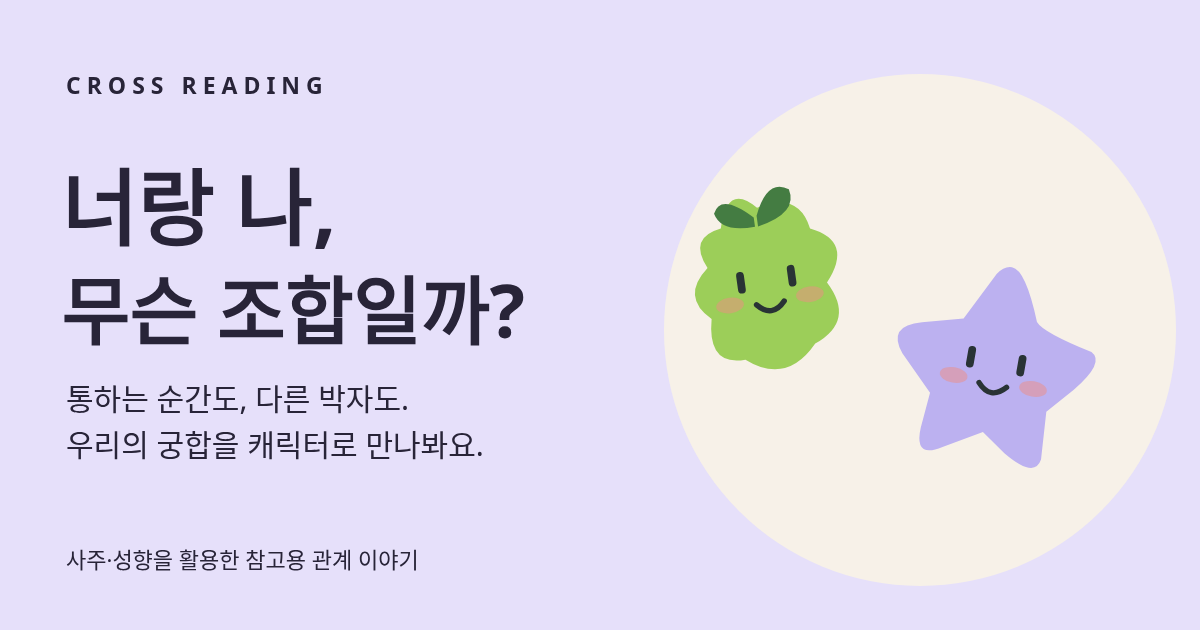
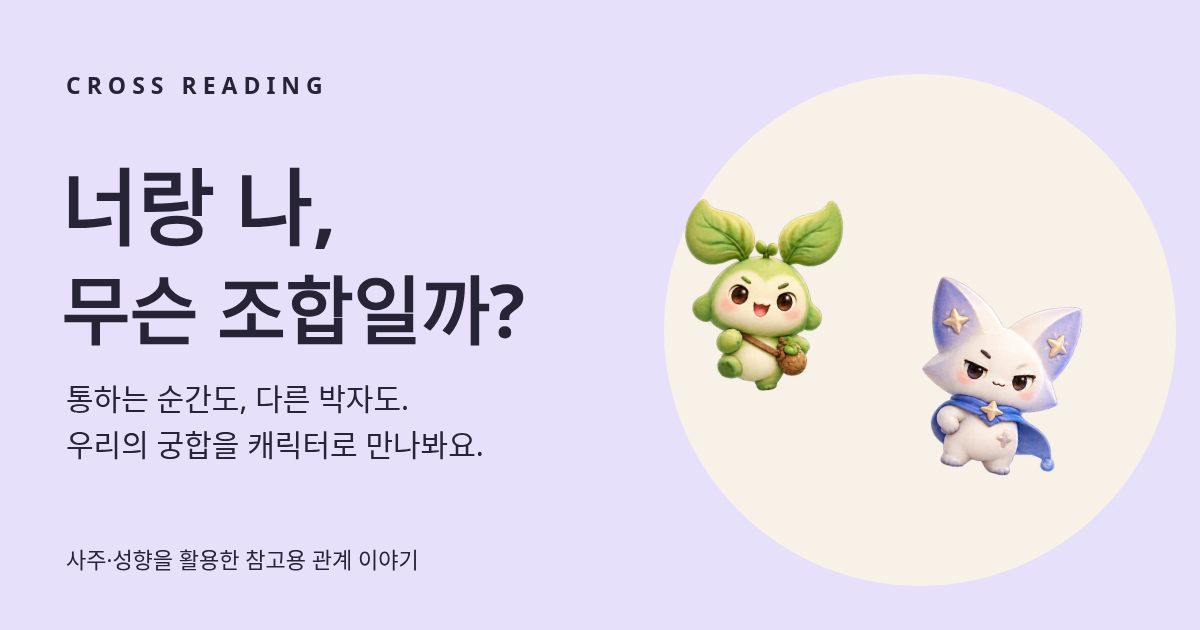
feat: add guardian character family and private test user provisioning

Changed region(s): [[0.74, 0.4222, 0.925, 0.754], [0.555, 0.3016, 0.7092, 0.6333]]

diff --git a/src/lib/chemistryShare.ts b/src/lib/chemistryShare.ts
@@ -3,15 +3,31 @@ import { chemistryStory } from '../core/chemistry'
 import { characterDrawing } from '../core/characterArt'
 import { withBase } from './basePath'
 
-export function chemistryShareSvg(pair: PairCompat): string {
+export function chemistryShareSvg(pair: PairCompat, atlas?: string): string {
   const story = chemistryStory(pair)
   // Only catalog copy goes into the export: never IDs, names, notes, or fact text.
   const match = story.matches[0]?.title ?? '우리의 공통점은 알아가는 중'
   const difference = story.differences[0]?.title ?? '눈에 띄는 차이는 아직 없어요'
-  return `<svg xmlns="http://www.w3.org/2000/svg" width="1080" height="1350" viewBox="0 0 1080 1350"><rect width="1080" height="1350" rx="60" fill="${story.color}"/><g font-family="system-ui, sans-serif" fill="#242838"><text x="70" y="108" font-size="28" font-weight="800" letter-spacing="5">CROSS READING · OUR CHEMISTRY</text><text x="540" y="245" text-anchor="middle" font-size="88" font-weight="900">${story.title}</text><text x="540" y="304" text-anchor="middle" font-size="31">${story.tag}</text><ellipse cx="540" cy="726" rx="400" ry="28" fill="#242838" opacity=".08"/><g transform="translate(90 352) scale(2.65)">${characterDrawing(story.characters[0])}</g><g transform="translate(565 352) scale(2.65)">${characterDrawing(story.characters[1], true)}</g><text x="535" y="548" text-anchor="middle" font-size="70">✦</text><rect x="64" y="794" width="952" height="322" rx="36" fill="#fff"/><text x="112" y="859" font-size="29" fill="#38734c" font-weight="800">잘 통하는 포인트</text><text x="112" y="916" font-size="36" font-weight="700">${match}</text><path d="M112 950H968" stroke="#e4e0db"/><text x="112" y="1009" font-size="29" fill="#a74a31" font-weight="800">맞춰볼 포인트</text><text x="112" y="1065" font-size="36" font-weight="700">${difference}</text><text x="540" y="1190" text-anchor="middle" font-size="36" font-weight="800">너랑 나는 무슨 조합일까?</text><text x="540" y="1246" text-anchor="middle" font-size="26">kor-sangyeoniii.github.io/cross-reading/</text><text x="540" y="1305" text-anchor="middle" font-size="22">사주·공개한 MBTI를 활용한 참고용 비유 · 관계를 판정하지 않아요</text></g></svg>`
+  return `<svg xmlns="http://www.w3.org/2000/svg" width="1080" height="1350" viewBox="0 0 1080 1350"><rect width="1080" height="1350" rx="60" fill="${story.color}"/><g font-family="system-ui, sans-serif" fill="#242838"><text x="70" y="108" font-size="28" font-weight="800" letter-spacing="5">CROSS READING · OUR CHEMISTRY</text><text x="540" y="245" text-anchor="middle" font-size="88" font-weight="900">${story.title}</text><text x="540" y="304" text-anchor="middle" font-size="31">${story.tag}</text><ellipse cx="540" cy="726" rx="400" ry="28" fill="#242838" opacity=".08"/><g transform="translate(90 352) scale(2.65)">${characterDrawing(story.characters[0], false, atlas)}</g><g transform="translate(565 352) scale(2.65)">${characterDrawing(story.characters[1], true, atlas)}</g><text x="535" y="548" text-anchor="middle" font-size="70">✦</text><rect x="64" y="794" width="952" height="322" rx="36" fill="#fff"/><text x="112" y="859" font-size="29" fill="#38734c" font-weight="800">잘 통하는 포인트</text><text x="112" y="916" font-size="36" font-weight="700">${match}</text><path d="M112 950H968" stroke="#e4e0db"/><text x="112" y="1009" font-size="29" fill="#a74a31" font-weight="800">맞춰볼 포인트</text><text x="112" y="1065" font-size="36" font-weight="700">${difference}</text><text x="540" y="1190" text-anchor="middle" font-size="36" font-weight="800">너랑 나는 무슨 조합일까?</text><text x="540" y="1246" text-anchor="middle" font-size="26">kor-sangyeoniii.github.io/cross-reading/</text><text x="540" y="1305" text-anchor="middle" font-size="22">사주·공개한 MBTI를 활용한 참고용 비유 · 관계를 판정하지 않아요</text></g></svg>`
+}
+let atlasData: Promise<string> | undefined
+function shareAtlas() {
+  if (!atlasData) atlasData = fetch(withBase('/characters/guardians.png')).then(async (response) => {
+    if (!response.ok) throw new Error('캐릭터를 불러오지 못했어요.')
+    const blob = await response.blob()
+    if (blob.type !== 'image/png') throw new Error('캐릭터를 불러오지 못했어요.')
+    return new Promise<string>((resolve, reject) => {
+      const reader = new FileReader()
+      reader.onload = () => resolve(String(reader.result))
+      reader.onerror = () => reject(new Error('캐릭터를 불러오지 못했어요.'))
+      reader.readAsDataURL(blob)
+    })
+  }).catch((error) => { atlasData = undefined; throw error })
+  return atlasData
 }
 export async function chemistryShareFile(pair: PairCompat): Promise<File> {
-  const url = URL.createObjectURL(new Blob([chemistryShareSvg(pair)], { type: 'image/svg+xml' }))
+  const atlas = await shareAtlas()
+  const url = URL.createObjectURL(new Blob([chemistryShareSvg(pair, atlas)], { type: 'image/svg+xml' }))
   try {
     const image = new Image()
     image.src = url

diff --git a/src/core/characterArt.ts b/src/core/characterArt.ts
@@ -1,7 +1,15 @@
 import type { CharacterKind } from './chemistry'
 
 // Original inline vector mascots; no external image request or personal seed.
-export function characterDrawing(kind: CharacterKind, alternate = false) {
+export function characterDrawing(kind: CharacterKind, alternate = false, atlas?: string) {
+  if (atlas) {
+    // Display a bounded region of the original atlas; never change the source asset.
+    const bounds: Record<CharacterKind, [number, number]> = { sprout: [0, 460], flame: [465, 390], sun: [860, 455], star: [1320, 425], cloud: [1750, 422] }
+    const [start, width] = bounds[kind]
+    const scale = 164 / 650, left = (164 - width * scale) / 2
+    const source = atlas.replace(/&/g, '&amp;').replace(/"/g, '&quot;').replace(/</g, '&lt;')
+    return `<defs><clipPath id="guardian-${kind}"><rect x="${left}" y="0" width="${width * scale}" height="164" /></clipPath></defs><image clip-path="url(#guardian-${kind})" href="${source}" x="${left - start * scale}" y="${-40 * scale}" width="${2172 * scale}" height="${724 * scale}" />`
+  }
   const shape: Record<CharacterKind, string> = {
     sprout: '<path d="M43 98 Q25 81 45 65 Q35 44 57 41 Q65 12 82 31 Q110 24 114 49 Q141 61 120 85 Q135 112 107 123 Q85 147 61 127 Q36 128 43 98Z" fill="#9cce59"/><path d="M79 37Q60 18 54 31Q57 44 79 43M81 36Q91 13 104 22Q108 38 81 43" fill="#447c42"/>',
     sun: '<path d="M81 19L94 32L112 26L117 44L137 48L132 68L148 82L132 98L137 117L115 122L108 140L90 134L74 148L60 130L40 134L34 114L15 106L24 86L13 68L33 57L33 36L56 38L66 19Z" fill="#f5bc4f"/><circle cx="81" cy="82" r="48" fill="#ffda77"/>',

diff --git a/src/core/chemistry.ts b/src/core/chemistry.ts
@@ -39,9 +39,9 @@ export function chemistryStory(pair: PairCompat) {
   return { kind, ...CHEMISTRY_STORIES[kind], matches, differences }
 }
 export const CHARACTER_PROFILES: Record<string, { kind: CharacterKind; name: string; line: string }> = {
-  목: { kind: 'sprout', name: '새싹 탐험가', line: '새로운 시작을 떠올리게 하는 나무의 이미지' },
-  화: { kind: 'flame', name: '반짝 불꽃', line: '마음을 표현하는 장면을 떠올리는 불의 이미지' },
-  토: { kind: 'sun', name: '포근한 중심', line: '곁을 든든하게 채우는 흙의 이미지' },
-  금: { kind: 'star', name: '또렷한 별', line: '필요한 것을 고르는 쇠의 이미지' },
-  수: { kind: 'cloud', name: '몽글 사색가', line: '생각과 쉼을 떠올리게 하는 물의 이미지' },
+  목: { kind: 'sprout', name: '모리 · 새싹 탐험가', line: '“일단 한 걸음 가볼까?” 호기심을 품은 목의 정령' },
+  화: { kind: 'flame', name: '타오 · 불꽃 응원단', line: '“네 편은 여기 있어!” 마음을 표현하는 화의 정령' },
+  토: { kind: 'sun', name: '도담 · 포근한 중심', line: '“급하면 잠깐 기대.” 곁을 지키는 토의 정령' },
+  금: { kind: 'star', name: '반디 · 또렷한 별', line: '“내 기준은 소중하니까.” 선을 아는 금의 정령' },
+  수: { kind: 'cloud', name: '몽울 · 느긋한 사색가', line: '“생각도 쉬어야 반짝여.” 쉼을 품은 수의 정령' },
 }

diff --git a/src/ui/ChemistryCharacters.tsx b/src/ui/ChemistryCharacters.tsx
@@ -1,9 +1,10 @@
 import type { CharacterKind } from '../core/chemistry'
 
+import { withBase } from '../lib/basePath'
 import { characterDrawing } from '../core/characterArt'
 
 export function ChemistryCharacter({ kind, alternate = false }: { kind: CharacterKind; alternate?: boolean }) {
-  return <svg viewBox="0 0 164 164" aria-hidden="true" focusable="false" dangerouslySetInnerHTML={{ __html: characterDrawing(kind, alternate) }} />
+  return <svg viewBox="0 0 164 164" data-guardian={kind} aria-hidden="true" focusable="false" dangerouslySetInnerHTML={{ __html: characterDrawing(kind, alternate, withBase('/characters/guardians.png')) }} />
 }
 export function ChemistryDuo({ kinds }: { kinds: [CharacterKind, CharacterKind] }) {
   return <div className="chemistry-duo" aria-hidden="true"><ChemistryCharacter kind={kinds[0]} /><span>✦</span><ChemistryCharacter kind={kinds[1]} alternate /></div>

diff --git a/docs/test-accounts.md b/docs/test-accounts.md
@@ -1,0 +1,34 @@
+# CR-021 합성 테스트 계정
+
+실제 사람을 등록하지 않는다. 테스트 계정은 모두 `example.invalid` 주소로 만들고 관리자 API의 `email_confirm: true`를 사용하므로 메일/SMS를 발송하지 않는다. 공개 화면에 계정 전환 버튼이나 비밀번호를 넣지 않는다.
+
+| 계정 | 가상 닉네임 | 테스트 범위 |
+| --- | --- | --- |
+| cross-reading-test-01@example.invalid | 테스트 모리 | 출생시간 있음, ENTJ |
+| cross-reading-test-02@example.invalid | 테스트 타오 | 다른 원국·출생시간 있음, ISFP |
+| cross-reading-test-03@example.invalid | 테스트 도담 | 다른 원국·출생시간 있음, ENFP |
+| cross-reading-test-04@example.invalid | 테스트 몽울 | 출생시간·MBTI 미상 안내 |
+
+닉네임은 캐릭터 이름을 빌린 가상 별칭이며 해당 계정의 사주 캐릭터를 미리 정하지 않는다. 사주 캐릭터와 궁합은 입력값에서 계산한다.
+
+## 관리자 실행
+
+현재 프로젝트 `bfntkulpspknuuwmnhfx`용 `SUPABASE_SERVICE_ROLE_KEY`를 클라우드 환경 보안 설정으로 공급한다. 환경 설정 초안에 요구 사항만 저장되어 있으며 값은 들어 있지 않다. 키를 채팅/코드/로그에 넣지 않는다. 서비스 키는 앱의 `VITE_` 변수로 사용하지 않는다.
+
+Node 24에서 저장소 밖의 비공개 파일 경로를 전달한다.
+
+```sh
+node --use-env-proxy scripts/provision-test-users.mjs /tmp/cross-reading-test-credentials.json
+```
+
+스크립트는 먼저 권한 0600의 비공개 manifest에 서로 다른 무작위 비밀번호와 예정 ID를 저장한 뒤, 해당 ID의 합성 사용자만 확인/생성한다. 모든 사용자 목록 조회, 기존 비밀번호 재설정, 기존 프로필 덮어쓰기는 하지 않는다. 기존 계정이 다른 manifest 소유면 중단한다. 실패 후 같은 파일로 재실행하면 완료된 단계를 재사용한다. 파일을 잃으면 임의로 기존 계정을 덮어쓰지 말고 소유자가 처리한다.
+
+사용자 전달용 자격 증명은 비공개 수단으로만 공유한다. 저장소/PR/공개 사이트에 파일을 올리지 않는다. `.invalid` 계정은 이메일 복구를 받을 수 없으므로 manifest를 안전하게 보관한다.
+
+## 직접 테스트
+
+계정별 서로 다른 브라우저 프로필/시크릿 창을 사용한다. 같은 브라우저의 일반 탭들은 Supabase 로그인 저장소를 공유하므로 독립 계정 테스트가 되지 않는다. 각 계정으로 로그인하여 개인 풀이를 확인하고, 한 계정에서 초대 링크를 만들어 나머지 세 계정에서 수락하면 4인 모임을 테스트할 수 있다. 기존 실제 사용자의 모임에 자동 추가하거나 메시지를 자동 발송하지 않는다.
+
+관리자 권한이 없을 때에는 계정이 생성되었다고 표시하지 않는다. 생성 스크립트의 로컬 모의 테스트 통과는 실제 Supabase 생성 성공을 뜻하지 않는다.
+
+API 근거: [공식 auth-js GoTrueAdminApi](https://github.com/supabase/auth-js/blob/master/src/GoTrueAdminApi.ts), 설치된 auth-js의 `AdminUserAttributes.id`, `email_confirm`. 관리자 키가 필요한 서버 전용 API를 사용한다.

diff --git a/tasks/CR-021.md b/tasks/CR-021.md
@@ -1,0 +1,20 @@
+# CR-021 — 테스트 계정 4종과 오행 수호정령
+
+- OWNER: Codex
+- AUTHORIZATION: 사용자 직접 요청 — 테스트 서버에 합성 사용자 4개 생성 및 캐릭터 품질 개선. 기존 배포 승인 유지.
+- BASE: CR-020 / PR #25. 양쪽 AGENTS/main/열린 PR 확인.
+- RISK: REVIEW (테스트 사용자 생성, 비밀 정보 전달).
+- FILES: tasks/CR-021.md, scripts/provision-test-users.mjs, scripts/verify-test-users.mjs, docs/test-accounts.md, src/core/characterArt.ts, src/core/chemistry.ts, src/core/chemistry.test.ts, src/ui/ChemistryCharacters.tsx, src/ui/ChemistryCard.tsx, src/ui/ChemistryCard.module.css, src/lib/chemistryShare.ts, src/lib/chemistryShare.test.ts, public/characters/, public/og-image.png, scripts/generate-social-image.mjs, scripts/verify-chemistry.mjs
+- READ: existing profile/consent APIs, Supabase migration schemas, official Supabase admin createUser docs. No production user listing or secrets printed.
+- DONE: 4 synthetic auth/profile accounts or explicit credential blocker, repeat-safe provisioning with private credential handoff, distinct high quality characters across app/share, browser/build/tests, PR/deploy.
+- DO NOT: real identities, public password/account-switch bypass, credentials in git/logs, external mail/SMS/push, paid API, main merge, screenshots.
+- BLOCKER: runtime has public Supabase values only. Admin secret requirement saved in environment draft; actual accounts cannot be created until binding is supplied.
+
+## 작업 결과
+
+- 오행 수호정령 원본 이미지 5종 생성: 모리(목), 타오(화), 도담(토), 반디(금), 몽울(수). 앱/개인 캐릭터/궁합/공유 PNG/공개 OG에 연결. 그림 자체를 성격 판정이나 점수로 사용하지 않음.
+- 원본 RGBA atlas를 앱에서 영역별 표시하고, 공유 시 같은 출처의 이미지를 data URI로 포함. 사용자 정보나 외부 이미지 API로 전송하지 않음.
+- 테스트 계정 4종 생성 스크립트·합성 프로필·비공개 manifest 처리 구현. 무작위 개별 비밀번호, 관리자 자동 이메일 확인(발송 없음), 지정 ID만 조회, 사용자 소유 표식 확인, 재실행 시 프로필/비밀번호 덮어쓰기 없음. 관리자 키는 브라우저/파일/로그에 저장하지 않음.
+- 계정 생성 모의 테스트 5개 통과. 실제 실행은 관리자 키 미연결로 시작 전 차단: 실제 생성 계정 0개. 환경 요구 초안 저장과 실제 생성 성공을 구분.
+- 단위 테스트 120개, 궁합/공유 13항목, 홈 9항목, build/lint 통과. 외부 요청/페이지 오류/캡처 0. 기존 JS 번들 크기 경고 유지.
+- 사용자 후속 제안: 기질 기반 소개팅으로 전환. 아직 낯선 사용자 매칭/호감/새 DB를 구현한 것은 아니며 이번 변경은 캐릭터와 테스트 준비 범위. ppippi.me 직접 접근은 환경 프록시 403으로 조사하지 못함.
